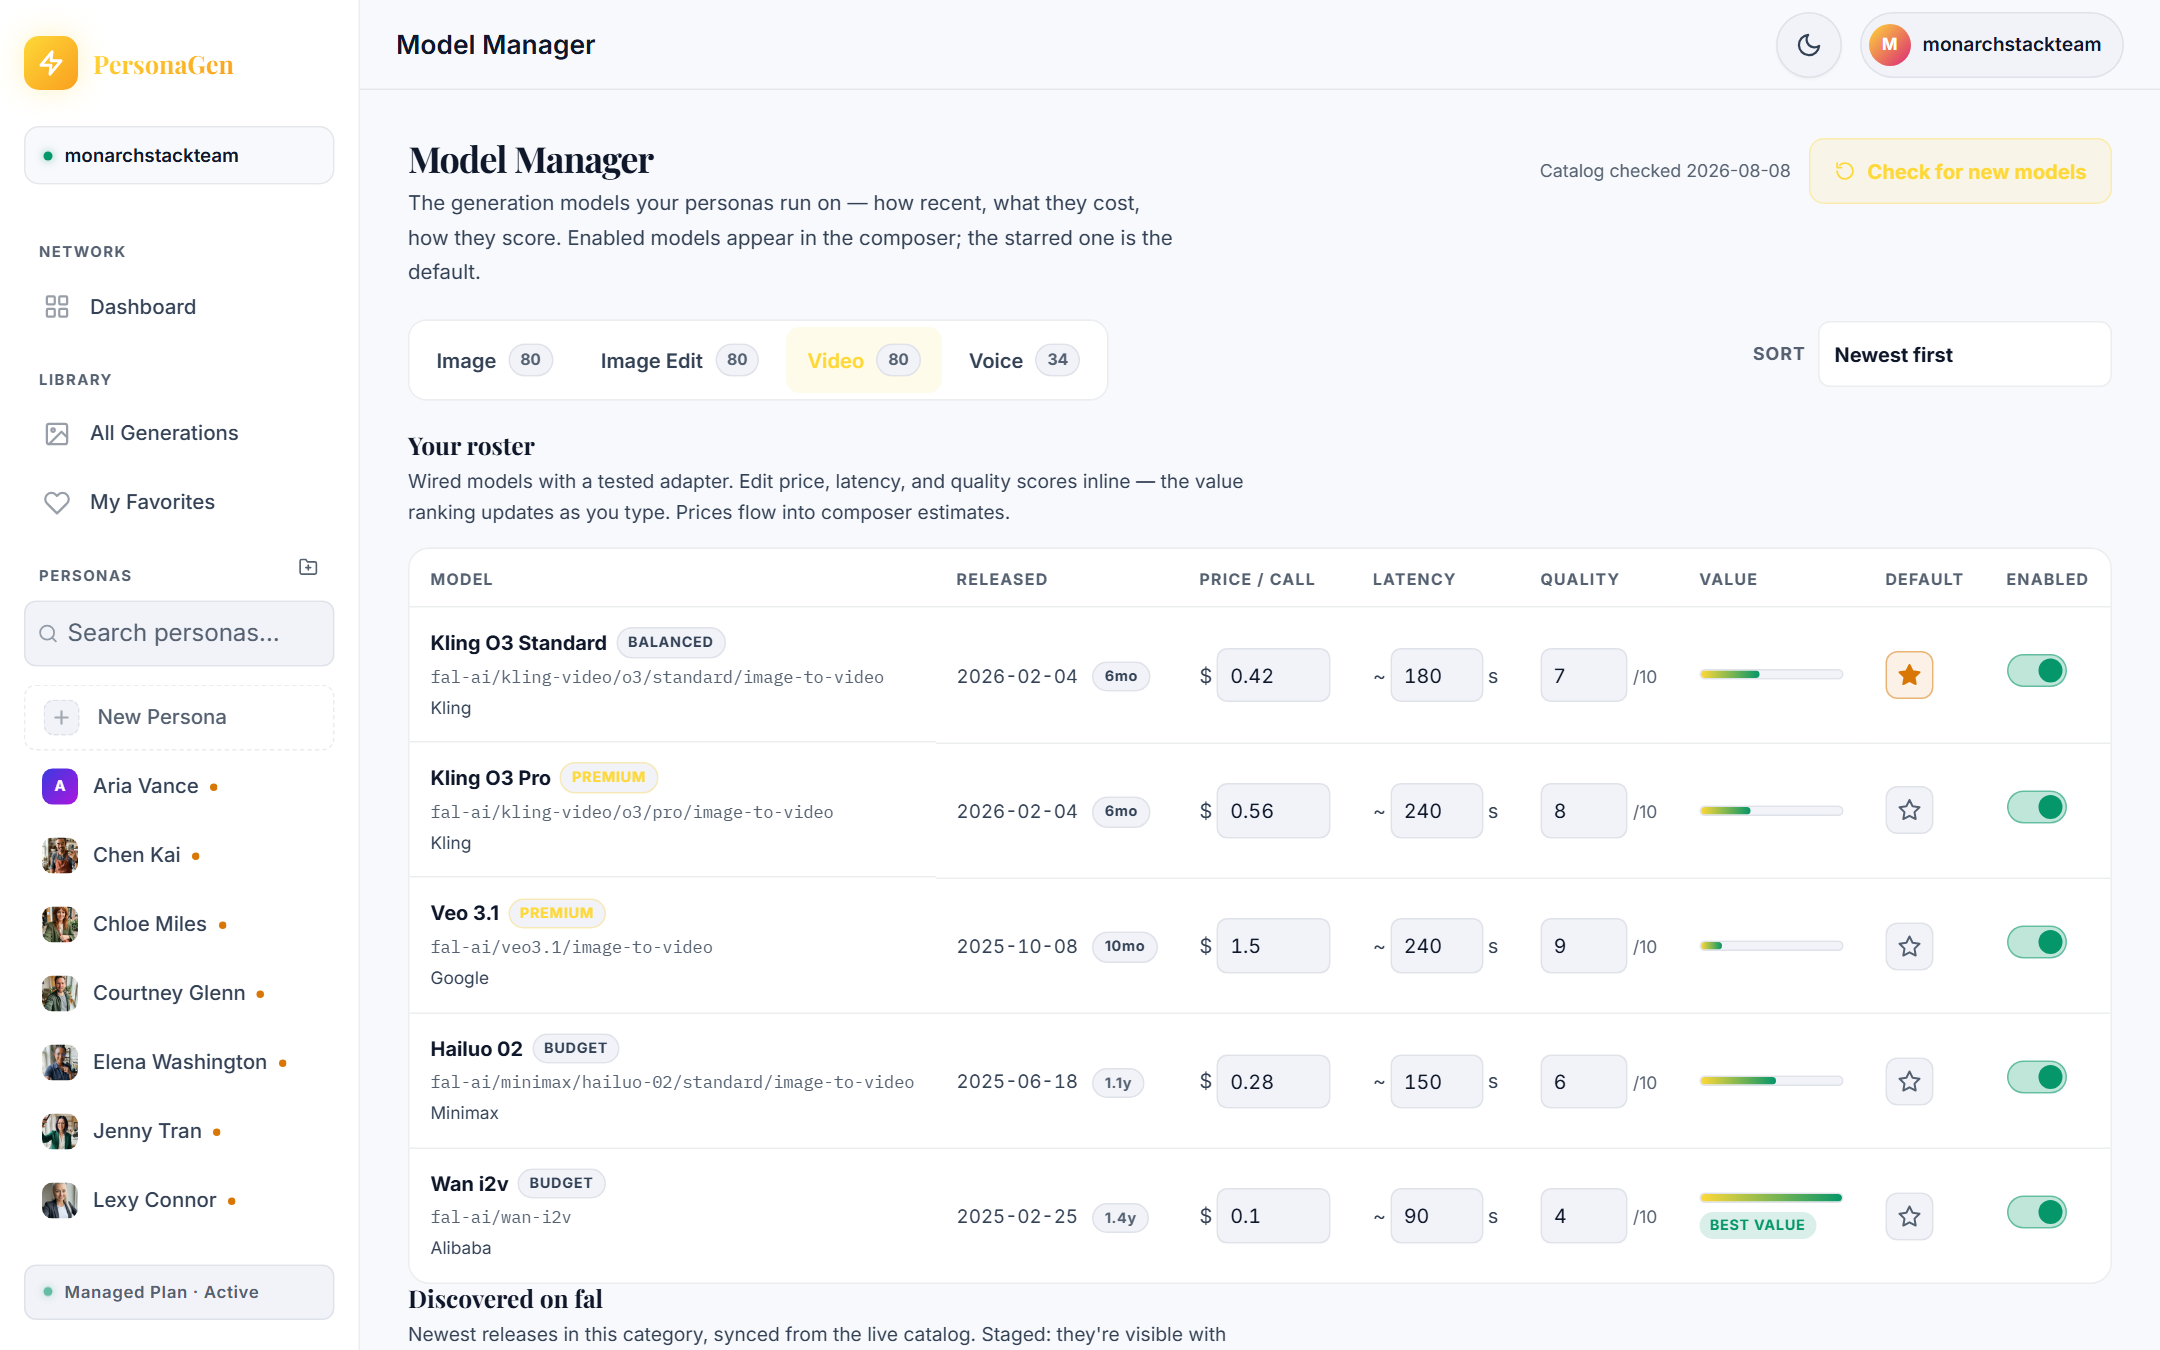
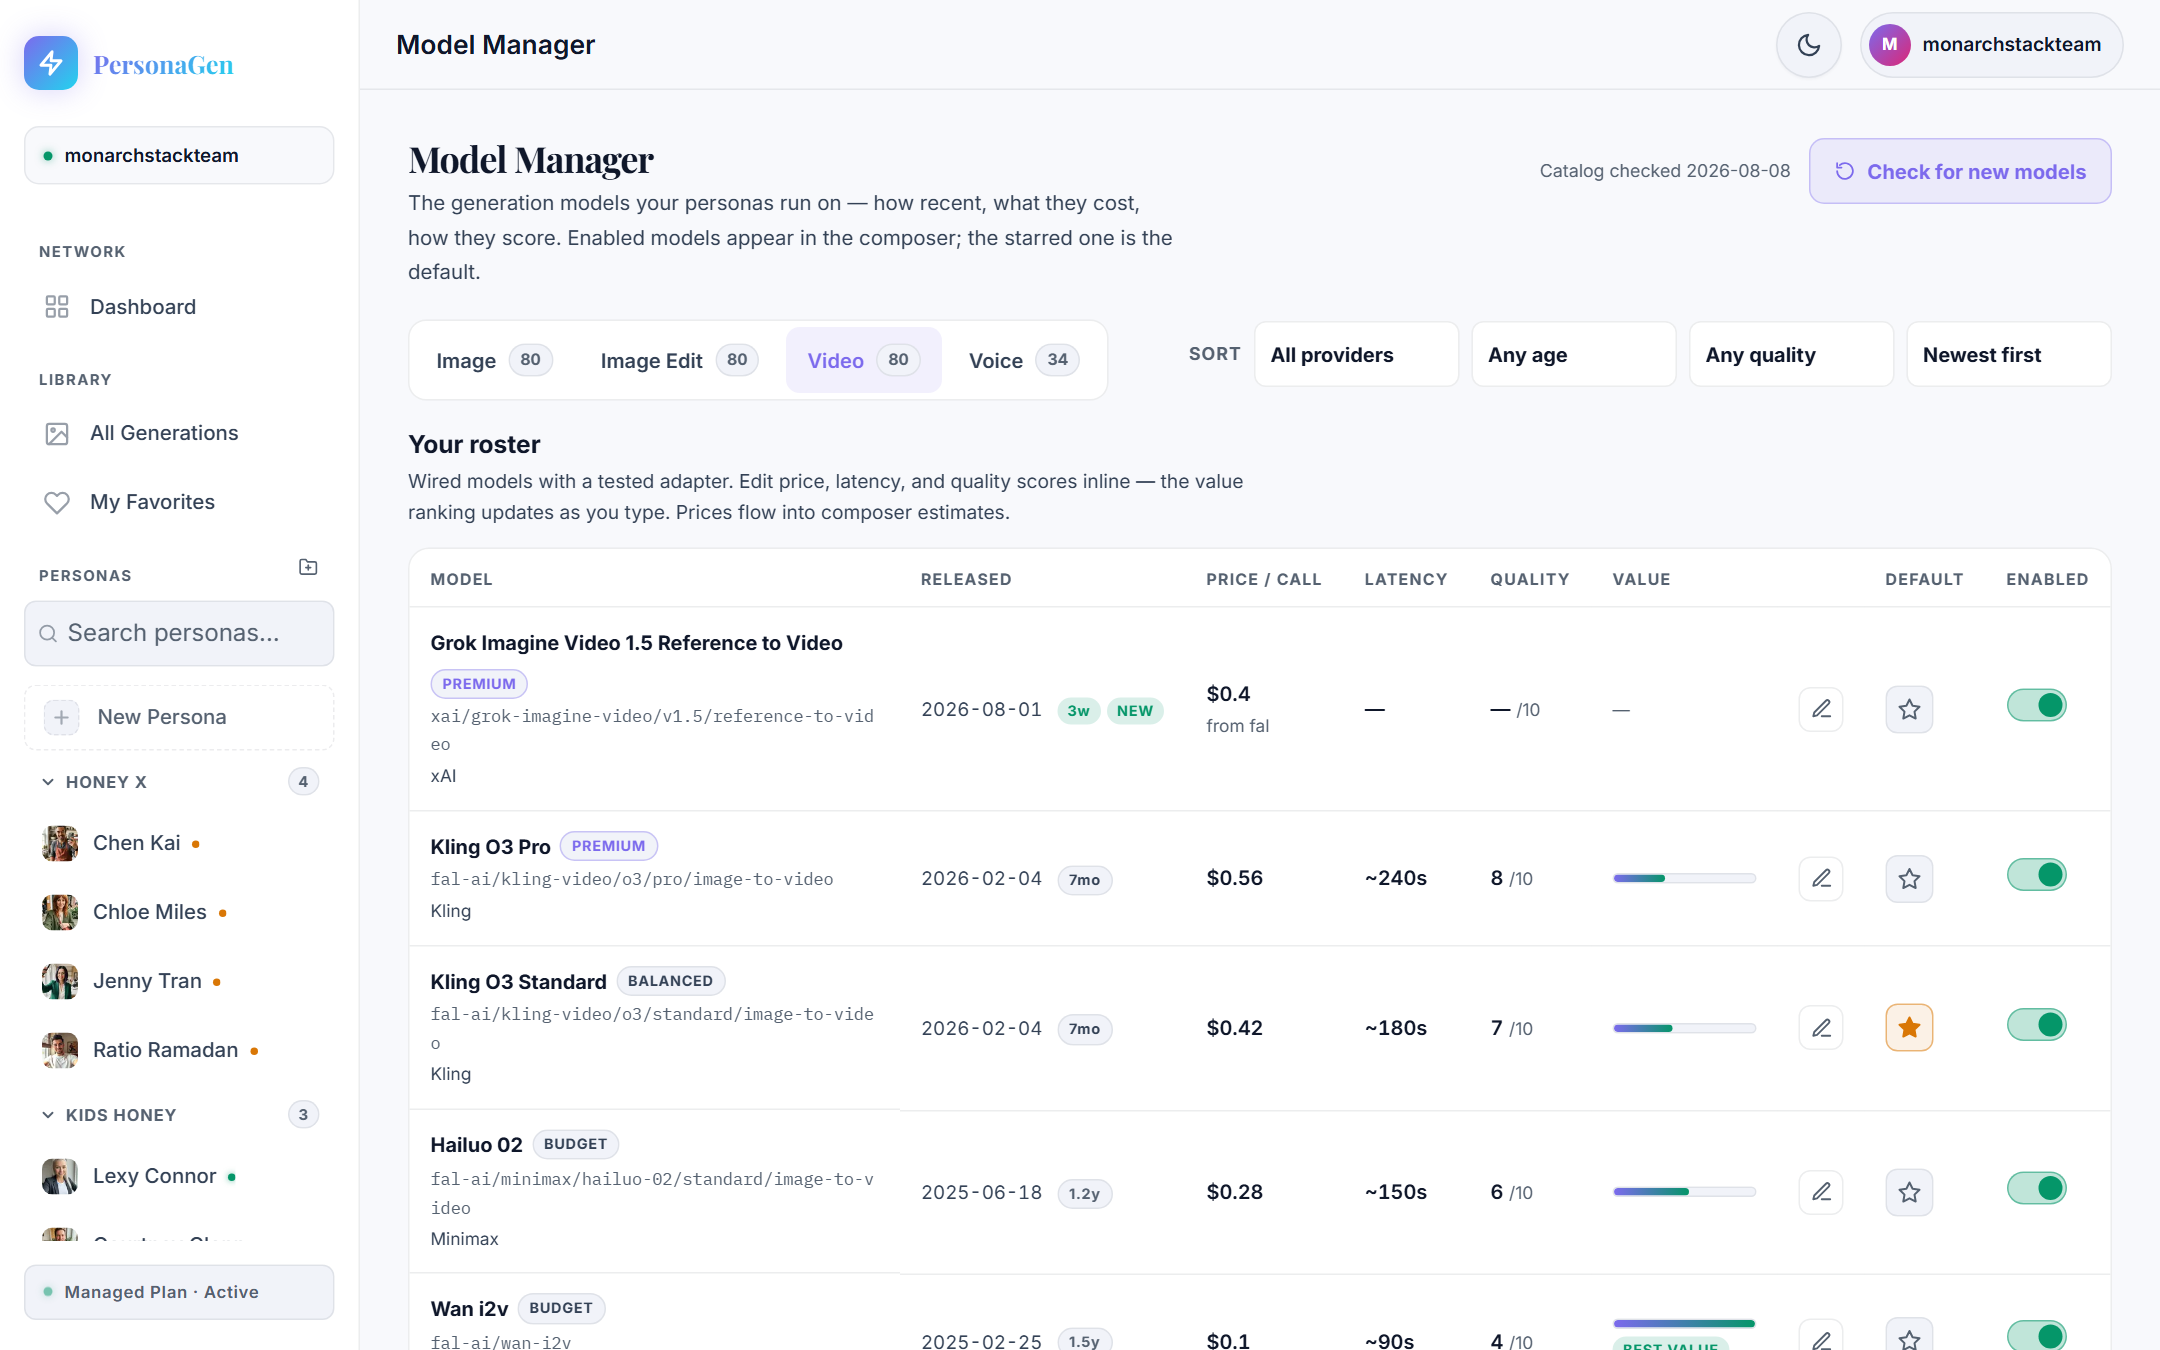
docs: align guides with current state — Docs label, model swap flow, fresh Model Manager shot
- Sidebar-map guide now says Docs (the nav label renamed from Guides)
- Model Manager guide covers the new provider/age/quality filters and
  the discovered-model slot swap using the real UI vocabulary
  (Probe & build adapter -> Choose a slot -> Swap in -> Confirm)
- models.png re-captured on production against the shipped filter/swap
  UI and visually verified

Sidebar screenshot re-capture is deferred until the Docs-hub build
deploys (it must show the new label and persona groups).

diff --git a/personagen-svelte/src/routes/(portal)/guides/+page.svelte b/personagen-svelte/src/routes/(portal)/guides/+page.svelte
@@ -71,7 +71,7 @@
 			],
 			steps: [
 				{
-					t: 'Everything lives in the left sidebar, in five groups: Network (Dashboard) · Library (All Generations, My Favorites) · Personas (your creators + New Persona) · Publish (Review Queue, Calendar) · Setup (Brand Brief, Model Manager, Guides, Settings).',
+					t: 'Everything lives in the left sidebar, in five groups: Network (Dashboard) · Library (All Generations, My Favorites) · Personas (your creators + New Persona) · Publish (Review Queue, Calendar) · Setup (Brand Brief, Model Manager, Docs, Settings).',
 					img: 'sidebar-guides',
 					alt: 'The PersonaGen sidebar with its five navigation groups'
 				},
@@ -661,8 +661,9 @@
 				},
 				{ t: 'Your roster shows each model’s release age, price per call, latency, and a 1–10 quality score — with a Value ranking (quality ÷ price) and a BEST VALUE pill.' },
 				{ t: 'The Enabled switch controls which models appear in the composer; the ★ star sets the default.' },
-				{ t: 'Sort by "Best value" to find cheap-but-good; price and quality are editable inline if your experience differs.' },
-				{ t: '"Check for new models" scans for newly released models; discovered ones can be probed for compatibility before adoption.' }
+				{ t: 'Sort by "Best value" to find cheap-but-good; price and quality are editable inline if your experience differs. Filters narrow the list by provider, release age, or quality.' },
+				{ t: '"Check for new models" scans for newly released models; discovered ones can be probed for compatibility before adoption.' },
+				{ t: 'Found something better in the discovered list? Click Probe & build adapter (a quick compatibility check), then Choose a slot… and Swap in — a second click confirms, and the new model takes that slot everywhere it’s used. The old model stays in the roster, so you can always swap back.' }
 			]
 		},
 		{
